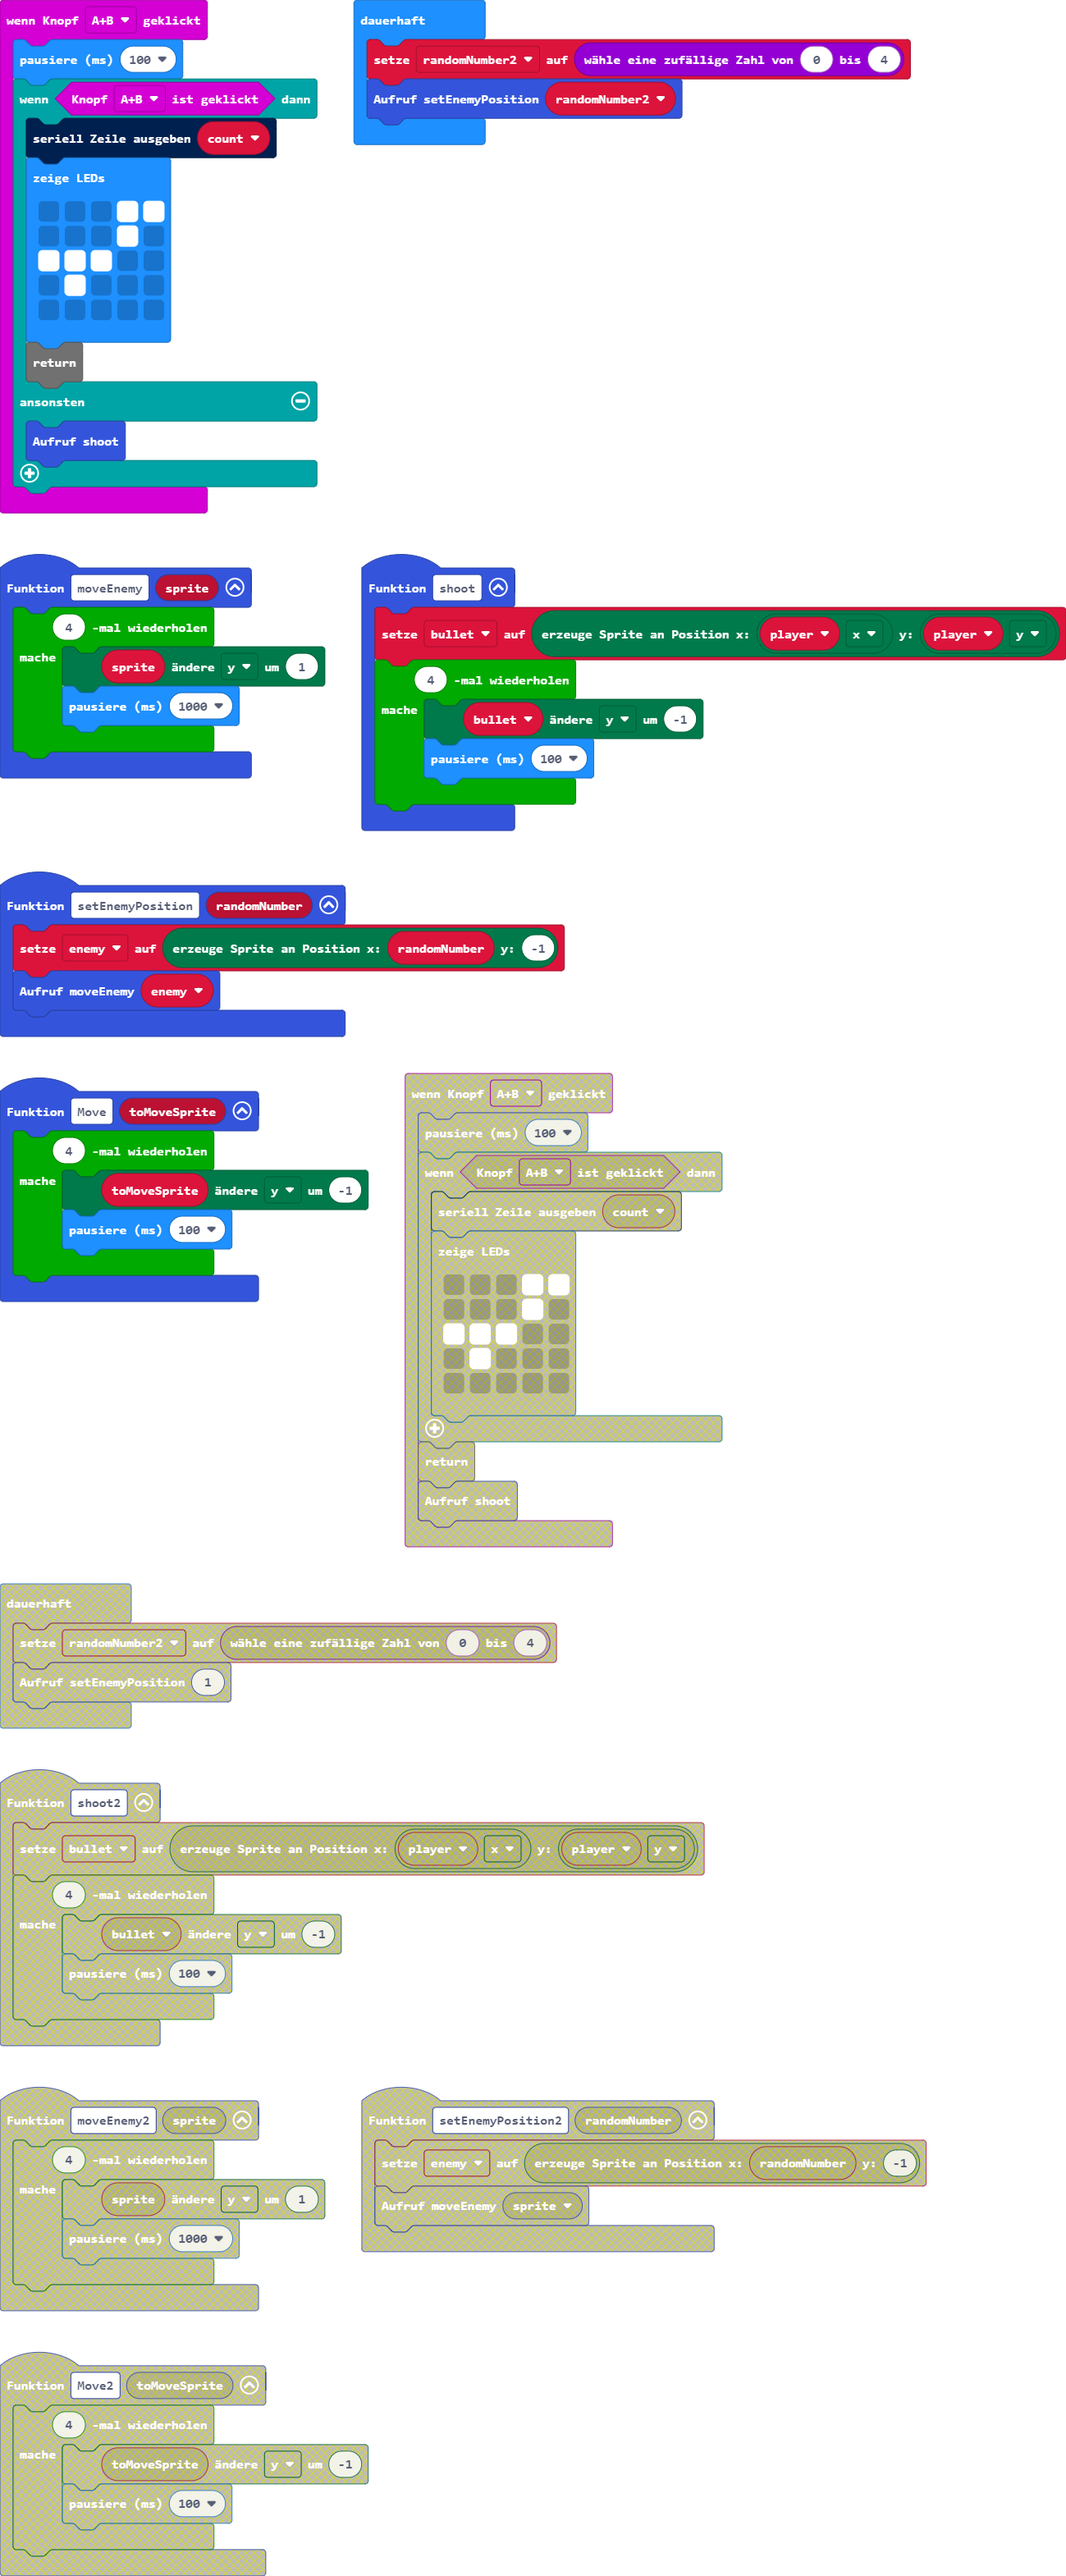
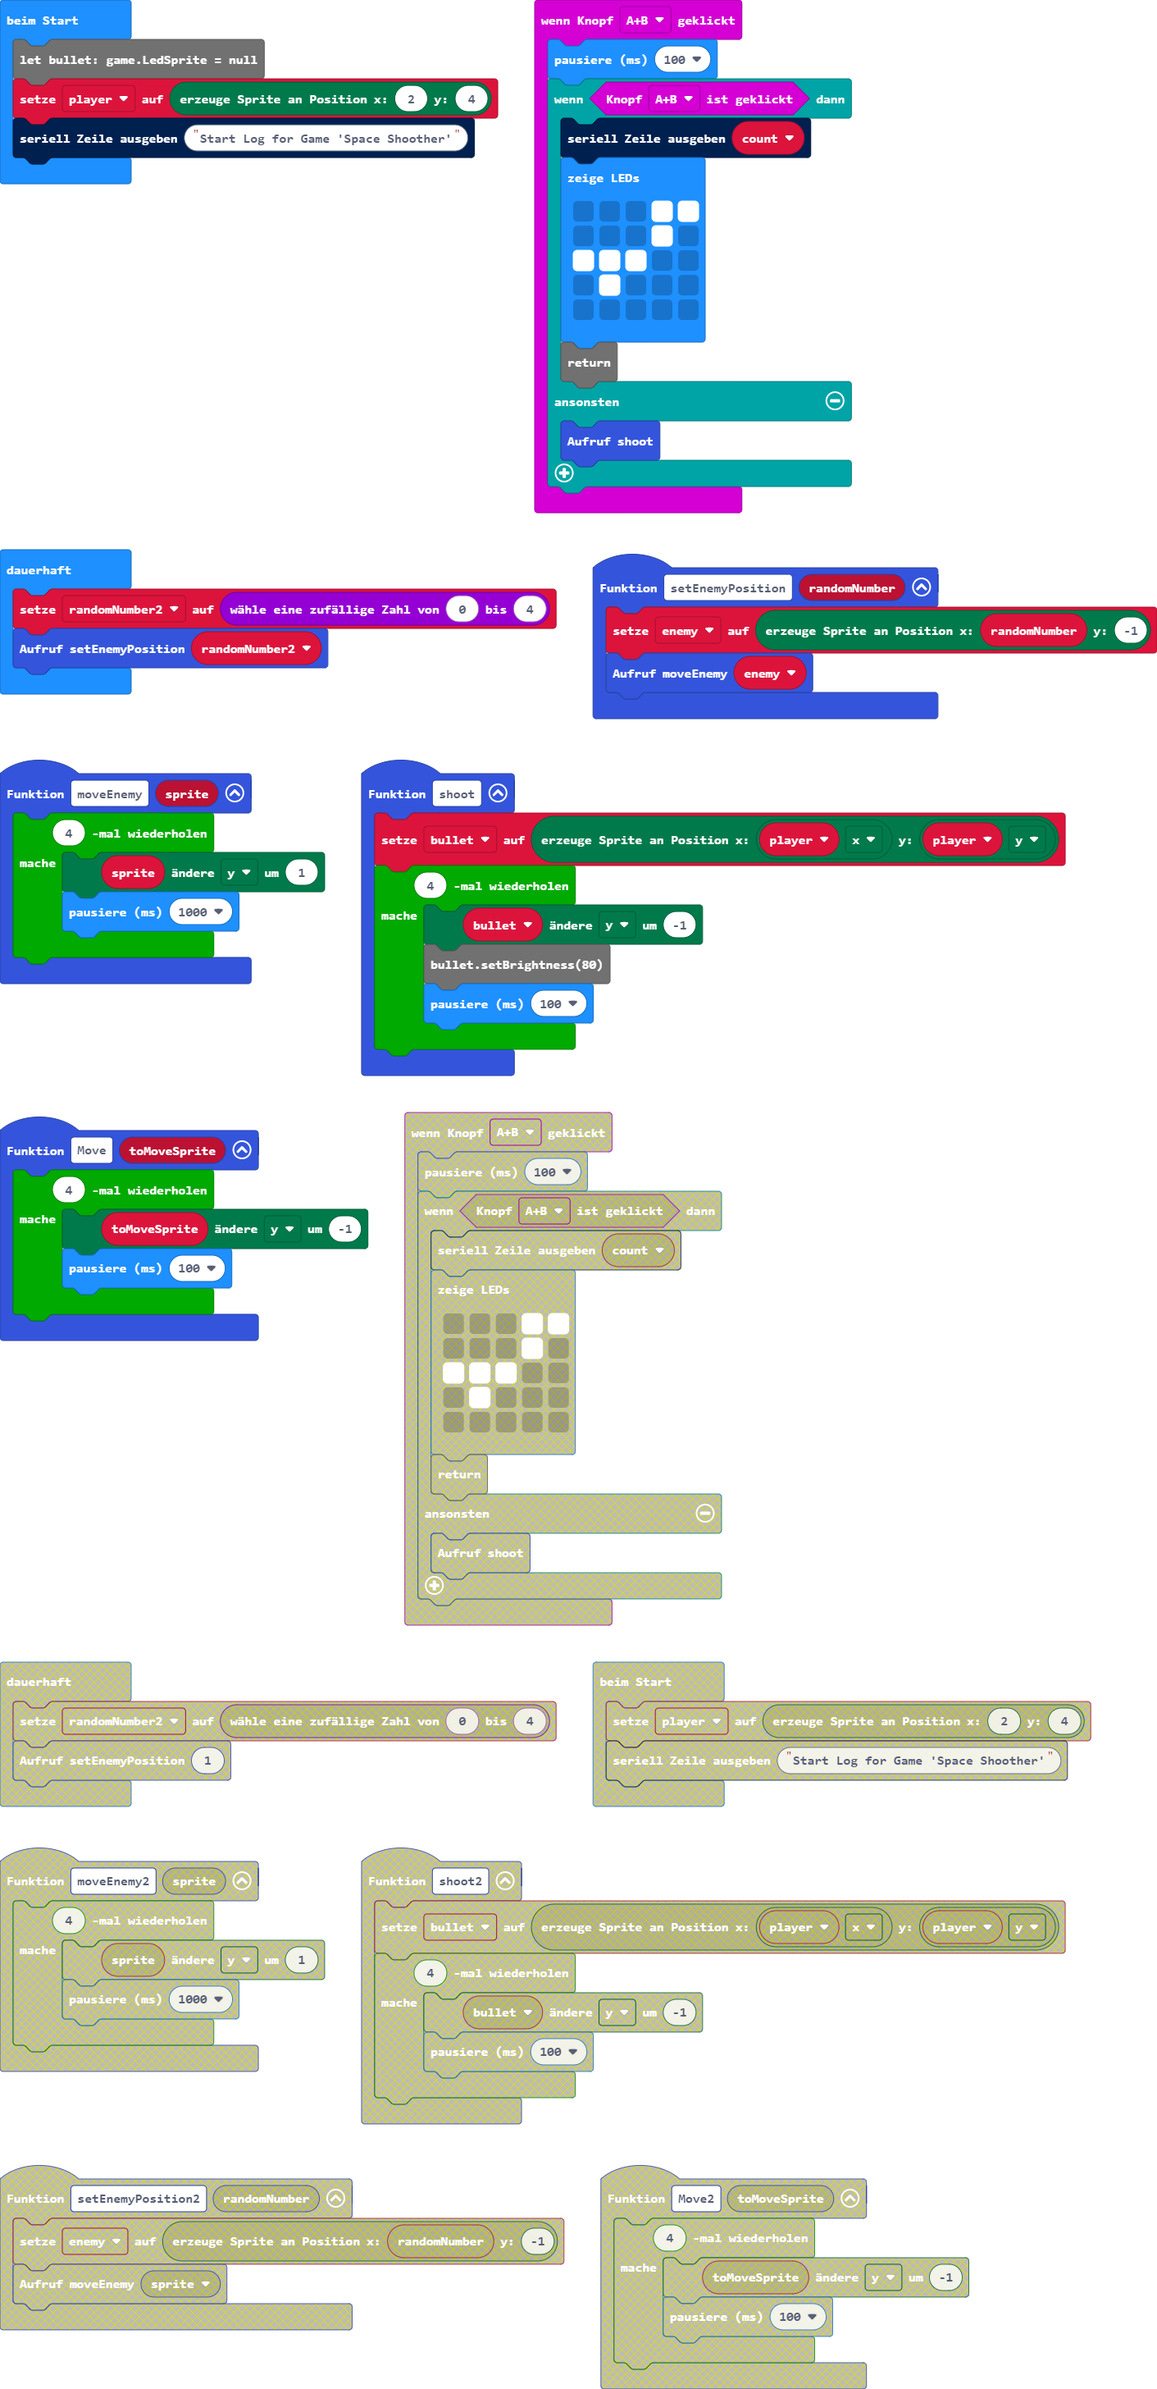
Aktualisiere main.blocks, main.ts

diff --git a/main.ts b/main.ts
@@ -11,7 +11,8 @@ function shoot () {
     bullet = game.createSprite(player.get(LedSpriteProperty.X), player.get(LedSpriteProperty.Y))
     for (let index = 0; index < 4; index++) {
         bullet.change(LedSpriteProperty.Y, -1)
-        basic.pause(100)
+        bullet.setBrightness(80)
+basic.pause(100)
     }
 }
 input.onButtonPressed(Button.AB, function () {
@@ -46,25 +47,10 @@ function setEnemyPosition (randomNumber: number) {
 }
 let randomNumber2 = 0
 let enemy: game.LedSprite = null
-let bullet: game.LedSprite = null
 let player: game.LedSprite = null
+let bullet: game.LedSprite = null
 player = game.createSprite(2, 4)
 serial.writeLine("Start Log for Game 'Space Shoother'")
-basic.forever(function () {
-    if (enemy == null) {
-        return
-    } else if (bullet == null) {
-        return
-    }
-    if (bullet.isTouching(enemy)) {
-        bullet.delete()
-        enemy.delete()
-    }
-})
-basic.forever(function () {
-    randomNumber2 = randint(0, 4)
-    setEnemyPosition(randomNumber2)
-})
 basic.forever(function () {
     if (enemy == null) {
         return
@@ -80,4 +66,19 @@ basic.forever(function () {
     if (bullet.get(LedSpriteProperty.Y) == 0) {
         bullet.delete()
     }
+})
+basic.forever(function () {
+    if (enemy == null) {
+        return
+    } else if (bullet == null) {
+        return
+    }
+    if (bullet.isTouching(enemy)) {
+        bullet.delete()
+        enemy.delete()
+    }
+})
+basic.forever(function () {
+    randomNumber2 = randint(0, 4)
+    setEnemyPosition(randomNumber2)
 })
